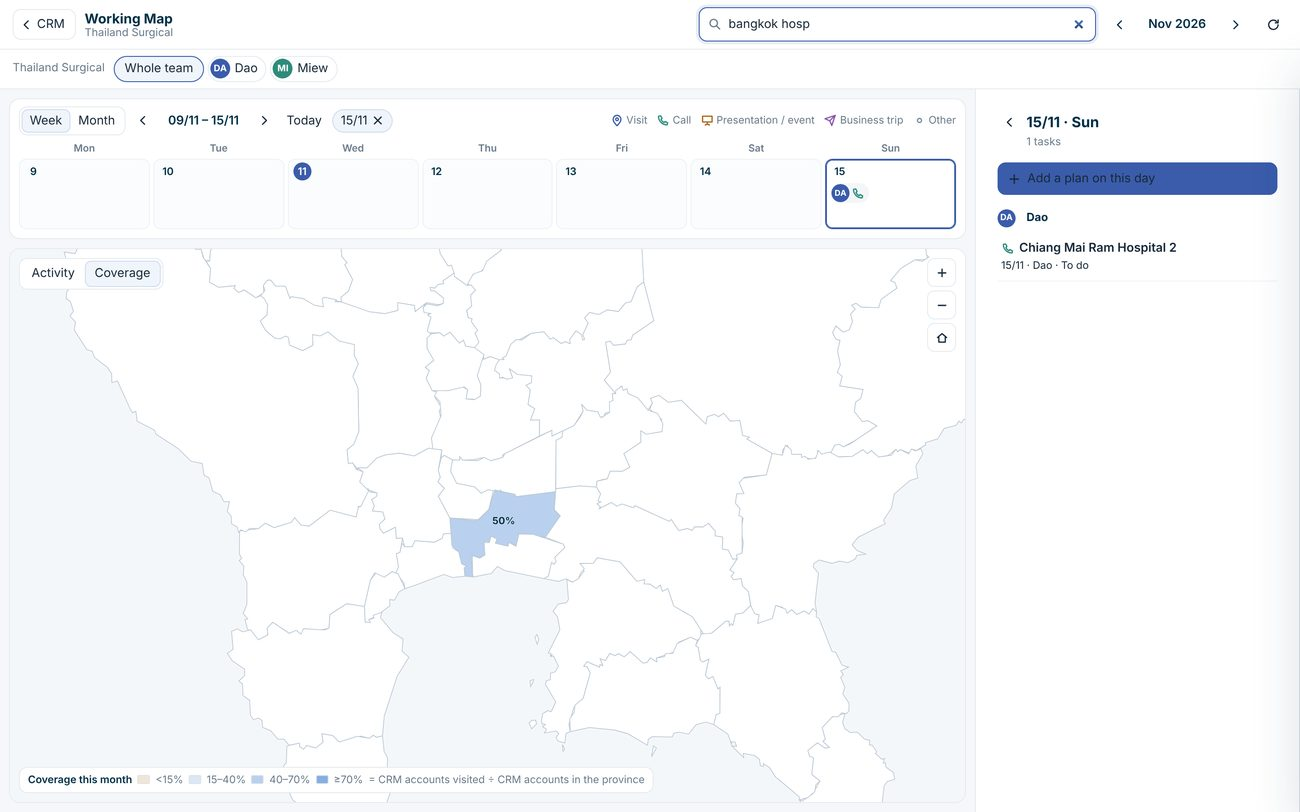
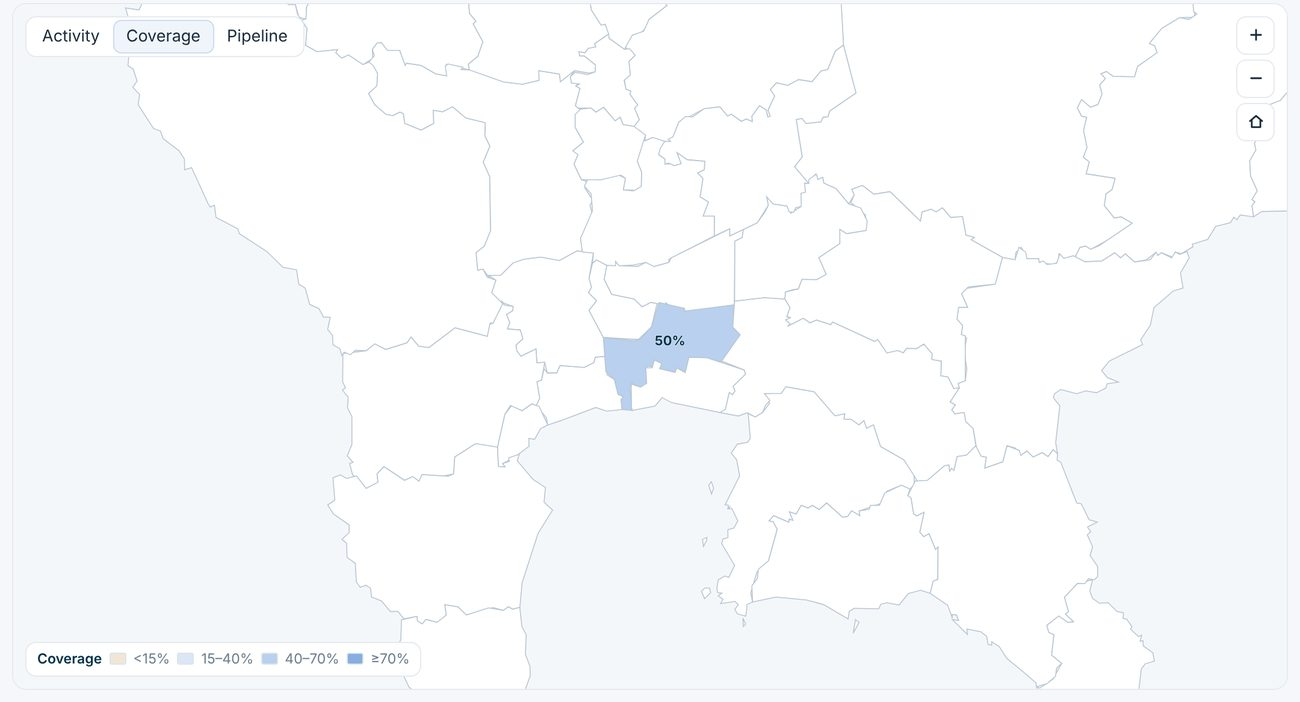
Working Map v2: ảnh thông báo tiếng Anh, bỏ qua dữ liệu KPI rỗng, CLAUDE.md
Claude-Session: https://claude.ai/code/session_01AAAZACLFPeJNEUUHJg9VgX

diff --git a/tools/tour_check.js b/tools/tour_check.js
@@ -6,7 +6,7 @@ const ARGS=process.argv.slice(2), THD=ARGS.includes("--thaid"), THAI=THD||ARGS.i
 const MOB=ARGS.includes("--mobile");   /* --mobile: khung điện thoại 390×844 */
 (async()=>{
   const b=await chromium.launch(); const p=await (await b.newContext(MOB?{viewport:{width:390,height:844},isMobile:true,hasTouch:true}:{viewport:{width:1440,height:900}})).newPage();
-  const errs=[]; p.on("pageerror",e=>errs.push(e.message));
+  const errs=[]; p.on("pageerror",e=>errs.push(e.message+" @ "+String(e.stack||"").split("\n").slice(1,3).join(" | ")));
   const pic=THD?"Yong":THAI?"Dao":"Viet";
   await p.addInitScript((pic)=>{ localStorage.setItem("mmh_tk",JSON.stringify({tk:"xxxxxxxxxxxx.sig",exp:Date.now()+864e5,user:{pic:pic,email:"x@manimedicalhanoi.com",local:"x",level:"lead",admin:true}}));
     localStorage.setItem("mmh_auth_later",new Date().toISOString().slice(0,10)); if(pic==="Dao") localStorage.setItem("mmh_team","thai"); if(pic==="Yong") localStorage.setItem("mmh_team","thaid"); }, pic);

diff --git a/wmap/wmap.js b/wmap/wmap.js
@@ -261,7 +261,7 @@ function loadKpi(force){
   if(!CFG.KPI_URL) return Promise.resolve(null);
   if(!force && KP.d && Date.now()-KP.at<60000) return Promise.resolve(KP.d);
   if(KP.busy) return KP.busy;
-  KP.busy=jp(CFG.KPI_URL, { action:"rhKpi" }, 60000).then(function(j){ KP.busy=null; if(j && j.ok){ KP.d=j; KP.at=Date.now(); } return KP.d; }).catch(function(){ KP.busy=null; return KP.d; });
+  KP.busy=jp(CFG.KPI_URL, { action:"rhKpi" }, 60000).then(function(j){ KP.busy=null; if(j && j.ok && Array.isArray(j.rows) && Array.isArray(j.periods)){ KP.d=j; KP.at=Date.now(); } return KP.d; }).catch(function(){ KP.busy=null; return KP.d; });
   return KP.busy;
 }
 function loadAll(force){

diff --git a/CLAUDE.md b/CLAUDE.md
@@ -299,8 +299,13 @@ Kiến trúc & quy ước giống MMH Report Hub (repo `ManiMedicalHanoi/MMH-Rep
   như Tender Map — KHÔNG dùng Leaflet / thư viện ngoài, chạy cả file://) + bảng chi tiết (phải; điện thoại: trượt lên). Nút **CRM** (`#wm-back`) về giao diện cũ, nút `#wmBtn` trên thanh trên cùng / Thêm ▸ Working Map mở lại.
   Phạm vi xem `WM.cfg.SCOPE`: Nguyen Ha = Việt Nam (mặc định) | Thái Lan, mọi nhóm · Tuyen / Hoa = mọi nhóm VN · Giang = Surgical VN · Viet = Dental VN · Dao = Surgical Thái · người khác (kể cả Dental Thái) = chỉ việc của mình;
   quản lý mặc định xem cả phòng ban, chọn từng người (`#wm-flt`). Dữ liệu chỉ ĐỌC backend từng nhóm qua JSONP (`visitFeed` 5 tháng trước → tháng sau, `customerIndex`, `tfTrips`; surgical + `fuVisits` (vị trí ghim / GPS) + `fuList`;
-  thaid + `acctList` + `fuList` / `fuSave` — backend `crm-thai-dental/TH_FollowUp.gs`). Vị trí khách: ghim / GPS ảnh (trung vị) ⇒ khớp danh mục cơ sở y tế theo tên + tỉnh ⇒ tâm tỉnh (gần đúng, chấm mờ).
+  thaid + `acctList`; nhóm khác + `oppList`). Vị trí khách: ghim / GPS ảnh (trung vị) ⇒ khớp danh mục cơ sở y tế theo tên + tỉnh ⇒ tâm tỉnh (gần đúng, chấm mờ).
   Địa lý: `geo/wm-vn-geo.js` (34 tỉnh) + `geo/wm-vn-csyt.js` (1.269 cơ sở, từ Tender Map — dựng lại: `node tools/wmap/vn_geo.js ../Tender-Result/map`), `geo/wm-th-geo.js`, `geo/wm-th-csyt.js`
   (3.181 bệnh viện / trạm y tế / nha khoa OpenStreetMap — workflow **Working Map · danh mục cơ sở y tế Thái Lan** tự chạy khi đổi `tools/wmap/th_csyt.py`, máy Claude không tải được). Thao tác dùng form cũ:
   `formWeekly` (Thêm kế hoạch, điền account + ngày), `openNewAccount` (cơ sở chưa có trong CRM), `tripProposeOpen` + `MS.dest` (Đề xuất công tác tới tỉnh), `openAcc`. Khách nhóm khác ⇒ nút mở nhóm đó (`switchTeam`, mở lại bản đồ).
   Đang chạy tour khác ⇒ bản đồ tự đóng (`__wmTour` cho bài `wmap`). Kiểm thử: `NODE_PATH=$(npm root -g) node tools/wmap/wm_test.js --pic "Nguyen Ha"|Viet|Yong|Dao [--mobile] [--th] [--shots <thư mục>]`.
+  **v2 (cùng bản)**: lịch = lưới lịch thật (ô ngày + thẻ việc, xanh lá = Done, rỗng = Planned). Bảng phải: **vòng KPI** (backend kpi `rhKpi`, `CFG.KPI_URL`, làm mới 60 giây; kỳ Tháng / Quý;
+  sales = KPI của mình · Team leader = theo nhóm KPI, bấm vòng ⇒ từng người · HOD / Director / Admin = điểm theo nhóm; màu `tone` như file KPI) + **Doanh số ước tính** (cơ hội đang mở, USD ⇄ VND / THB,
+  tỷ giá CỐ ĐỊNH `CFG.RATE` 26.700 VND · 33 THB). Cơ hội thầu / mua sắm theo khách: Surgical VN = Theo dõi thầu (`fuList` / `fuSave`, `fuFromTender`), nhóm khác = `oppList` / `oppSave`
+  (backend `MMH_Opp.gs`); sản phẩm theo nhóm (`wmap/products.js` ▸ `WM_PROD`, Dental: DIA-BURS 444 mã từ mmh-library, trâm tay, JIZAI, composite, bond, tẩy trắng…) — nhập SL theo nhóm, mã chi tiết bắt buộc đơn giá.
+  Bản đồ 4 lớp: Hoạt động · Độ phủ · Pipeline · Trúng thầu (Surgical VN: `winMap` Hùng Vĩ / iCare = MANI, `kqttMap` = hãng khác, 18 tháng). Hướng dẫn lần đầu 7 bước (`wm2_tut_<pic>`, chờ popup khác đóng, nút `?` mở lại).
